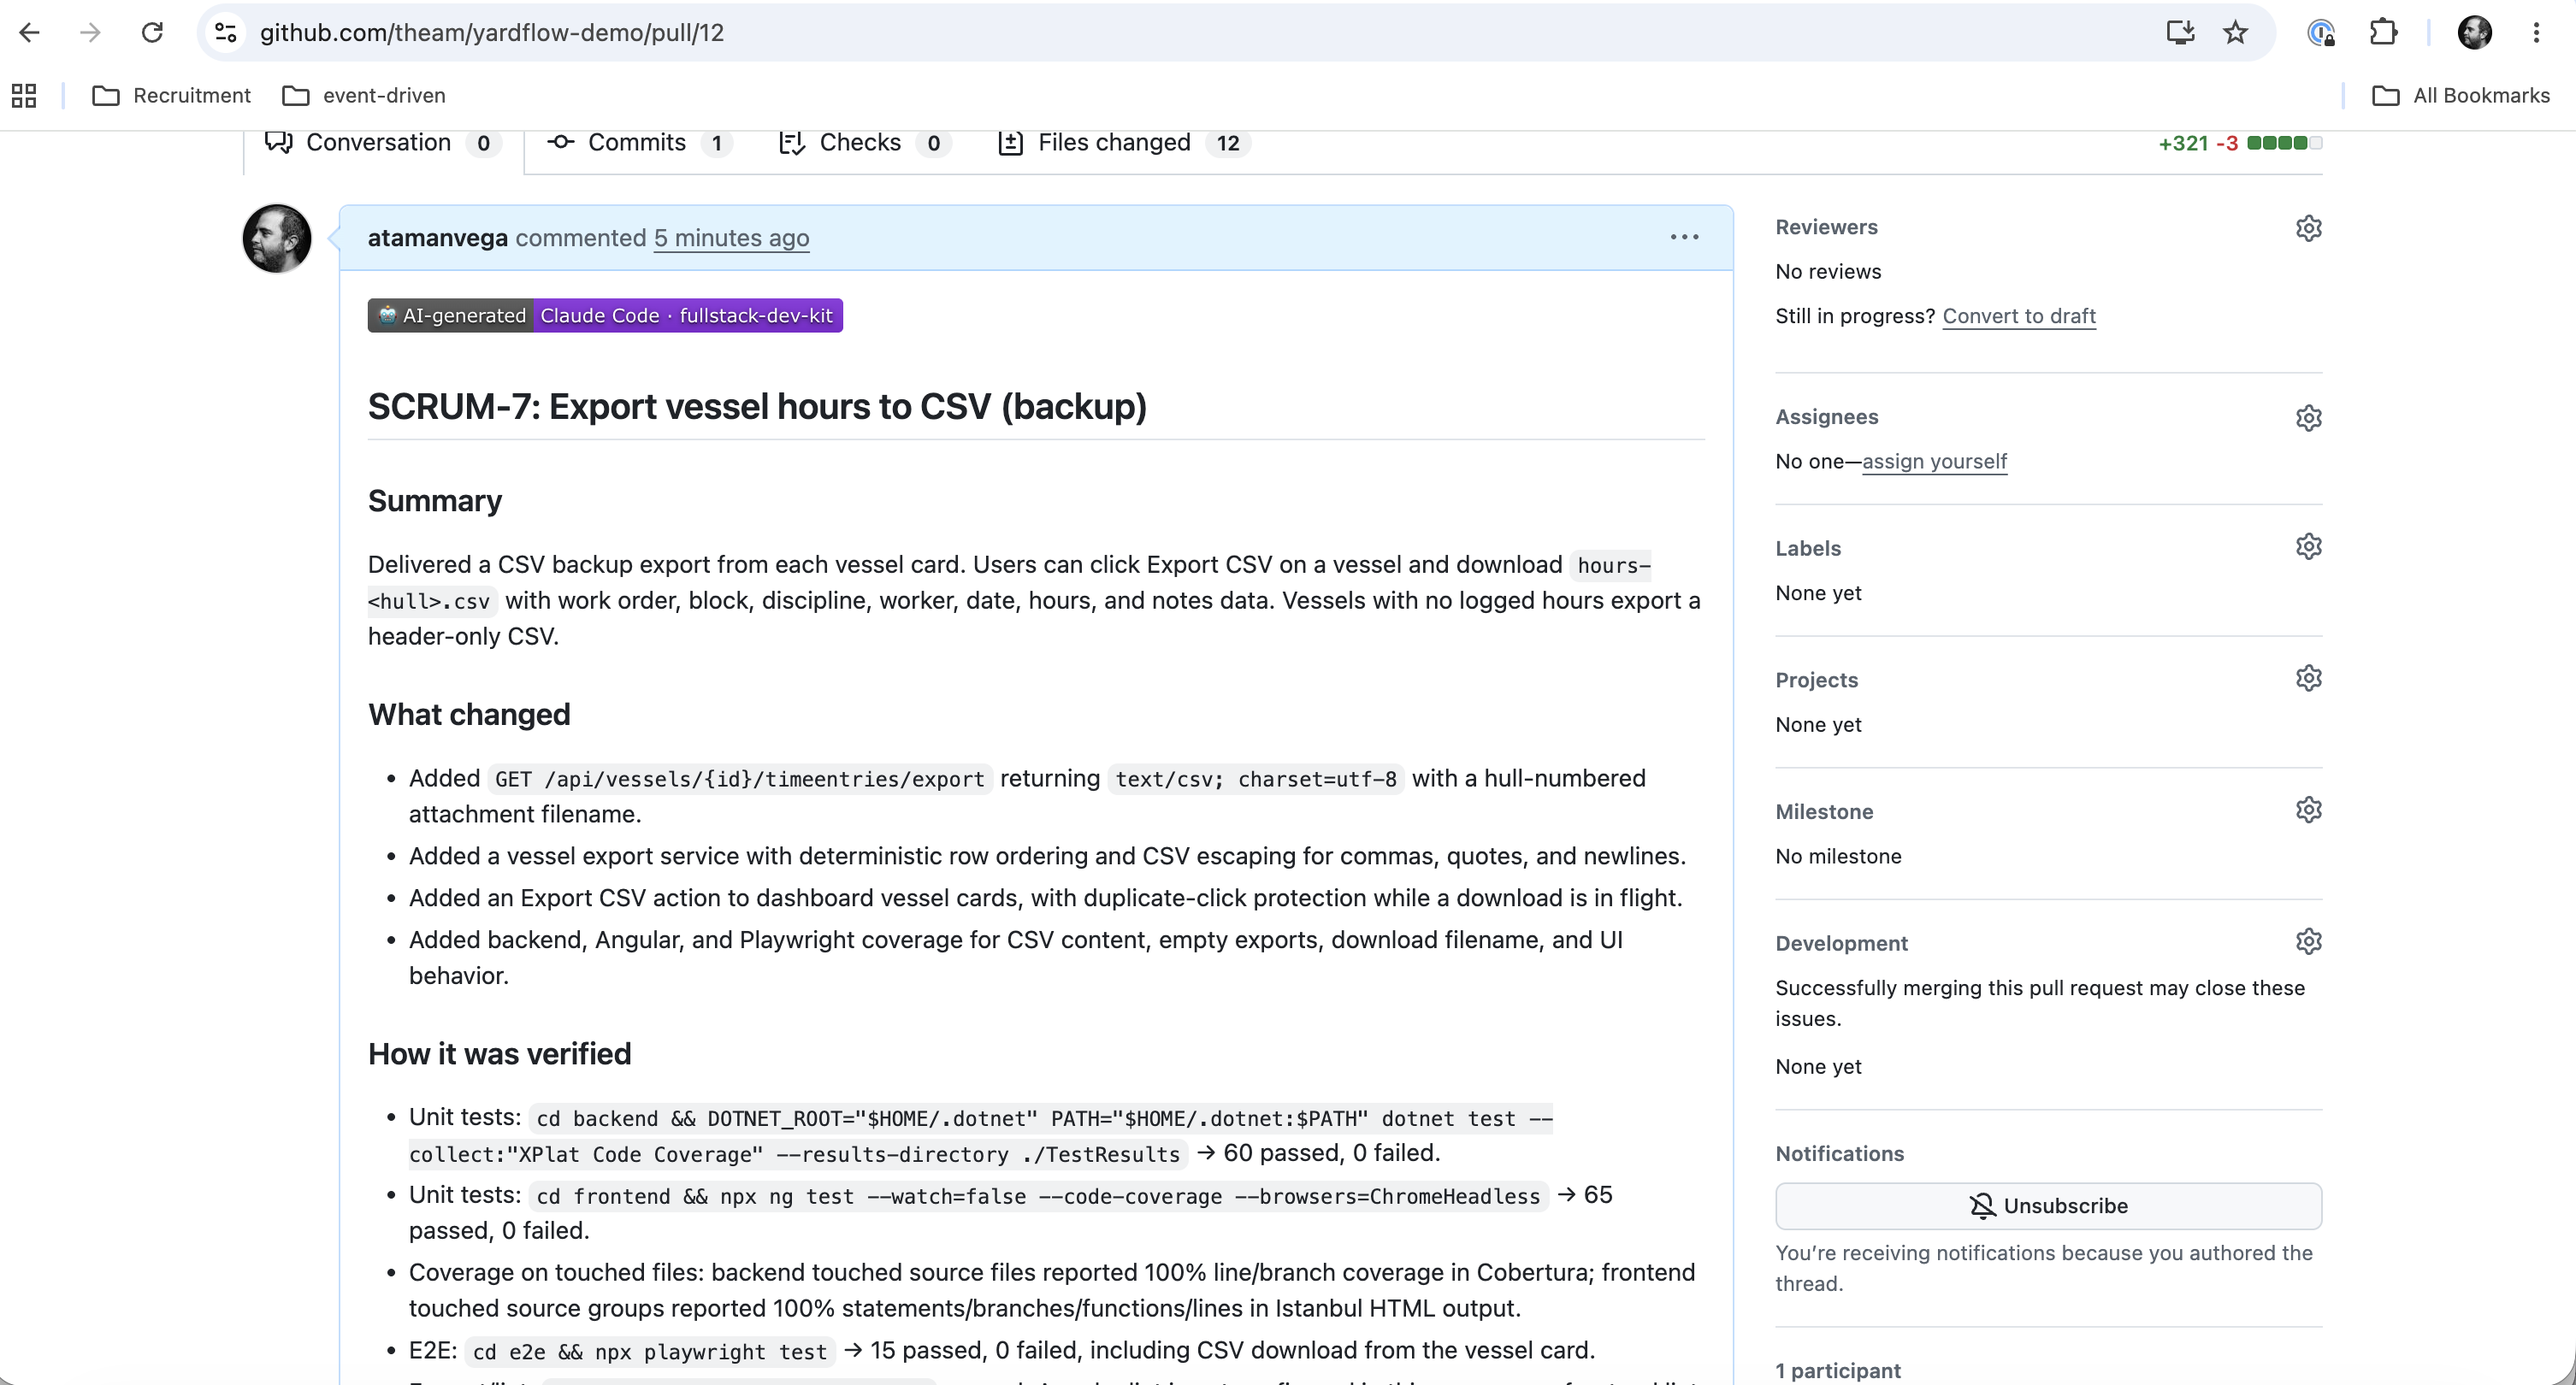
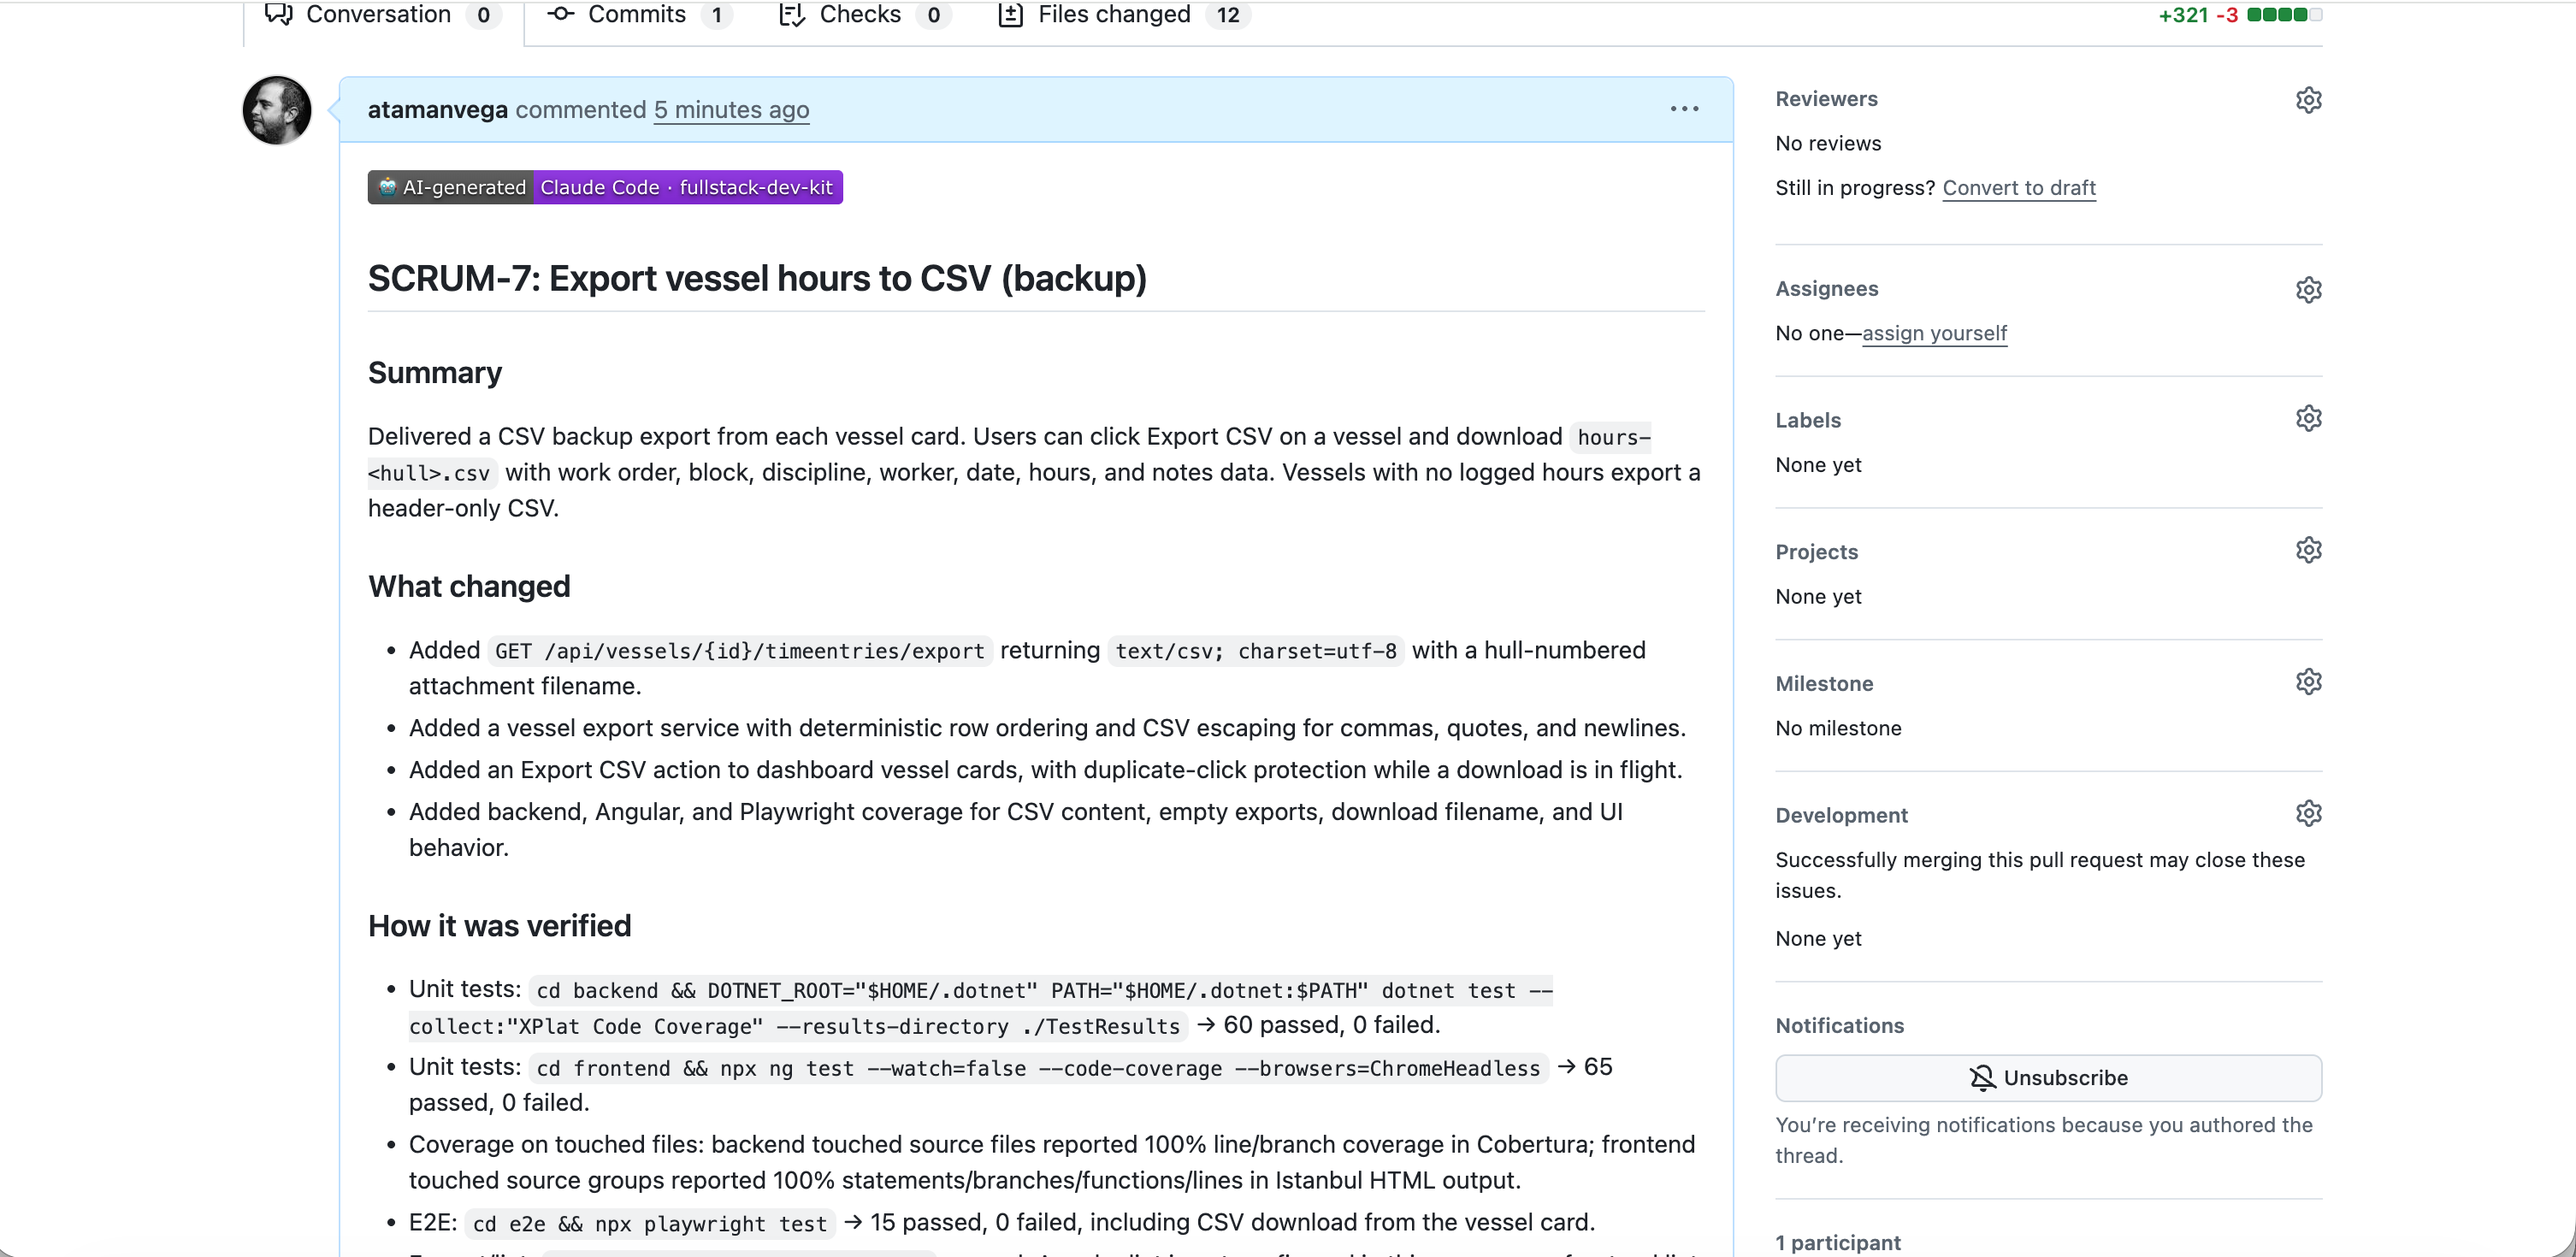
chore(submission): crop browser chrome from listing screenshots (#36)
Removed the browser address/bookmark bar from the GitHub PR and Jira ticket
screenshots (via sharp; verified visually). The Codex plan shot was already
chrome-free. Listing-asset refinement only — same filenames/paths, no version
bump. Demo name remains; design can redact + add margins later (drop-in).

diff --git a/SUBMISSION.md b/SUBMISSION.md
@@ -39,7 +39,7 @@ URL, no `.well-known/openai-apps-challenge` domain verification, no tool-annotat
 - ✅ `composerIcon` — the TAM `t•` symbol (`assets/composer-icon.svg`).
 - ✅ `brandColor` — `#000000` (TAM is strict B&W; canonical brand black).
 - ✅ `screenshots` — 3 wired: the GitHub PR (badge + verification), the Codex plan-approval gate, and the updated Jira ticket. In `assets/screenshots/`.
-- Note: the icon PNGs are solid-background (RGB, not transparent) — fine for a listing; regenerate from the symbol SVG if a portal requires transparency. The screenshots are raw captures with browser chrome and a personal name — **design should crop the chrome / anonymize** before the final submission (drop-in replacements, same filenames).
+- Note: the icon PNGs are solid-background (RGB, not transparent) — fine for a listing; regenerate from the symbol SVG if a portal requires transparency. Screenshots now have the **browser chrome cropped**; the demo name (`atamanvega` / "Ataman Vega Vega") remains — design can redact it and add consistent margins if desired (drop-in replacements, same filenames).
 
 **Identity / access (the slow one)**
 - ⛔ **OpenAI Platform:** verified individual/business identity + a role with **"Apps Management"** write access. **Owner: you (org admin).** Start this early — it gates the OpenAI submission.
